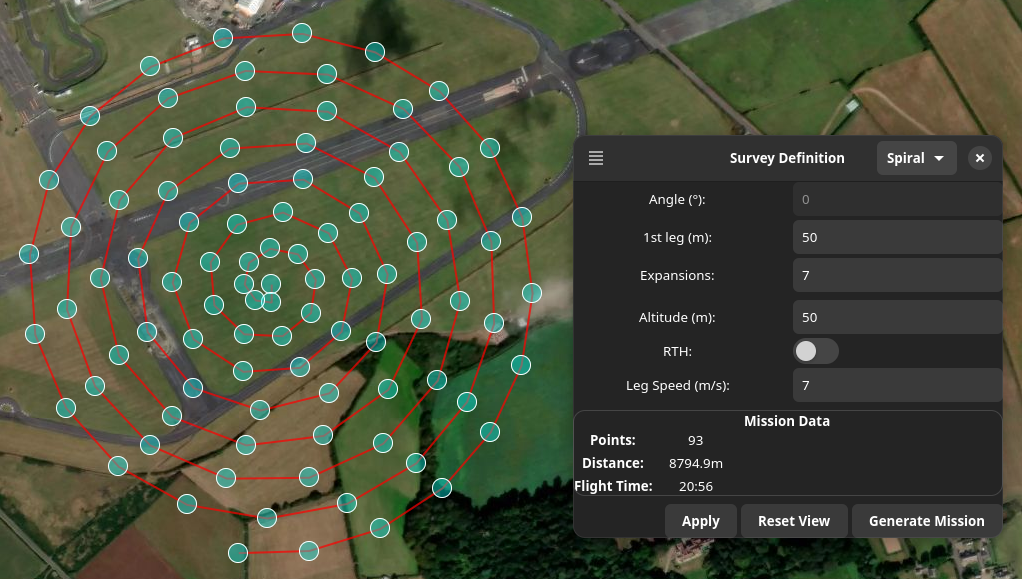
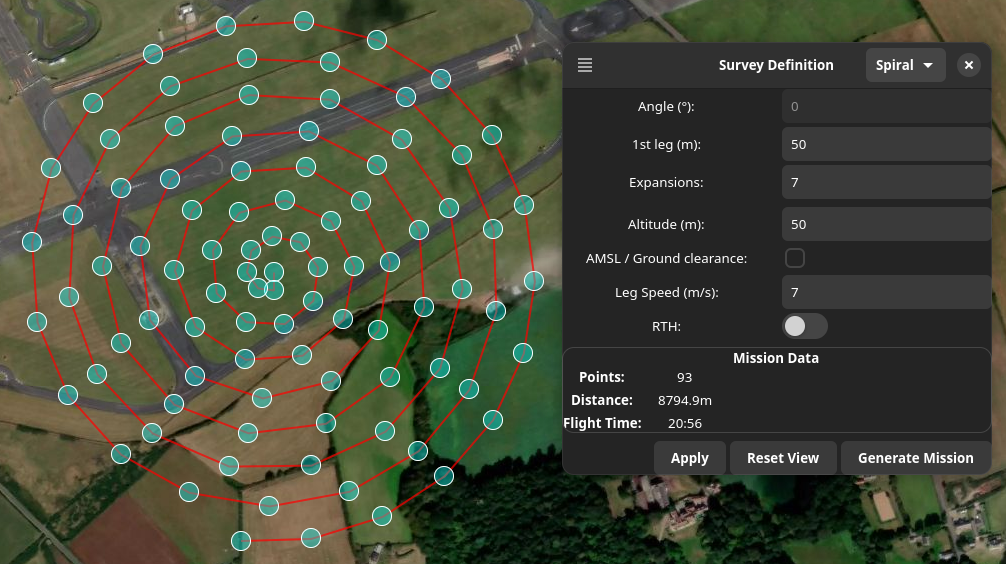
update docs

diff --git a/docs/manual/docs/mwp-area-planner.md b/docs/manual/docs/mwp-area-planner.md
@@ -25,6 +25,11 @@ The dialog provides options for mission creation that are common to each survey 
 * **RTH** (mission parameter). Whether to set RTH on the final generated WP.
 * **Leg Speed** (mission parameter).
 
+
+
+!!! note "Legacy Images"
+	There are some older images in the samples below without the AMSL button.
+
 ### Control Buttons
 
 The tool is controlled by the three buttons at the bottom of the window.
@@ -76,7 +81,7 @@ The default parameters result in the following survey pattern.
 
 ![area planner](images/survey-gen-square.png)
 
-The generated mission from these settings looks like:
+And a generated mission from these settings looks might look like:
 
 ![area planner](images/survey-mission-sq.png)
 
@@ -88,7 +93,7 @@ The default parameters result in the following survey pattern.
 
 ![area planner](images/survey-spiral-01.png)
 
-The generated mission from these settings looks like:
+And a generated mission from these settings looks might look like:
 
 ![area planner](images/survey-spiral-02.png)
 
